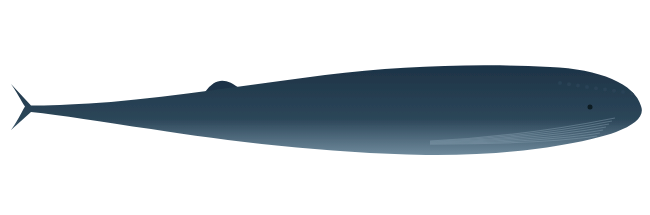
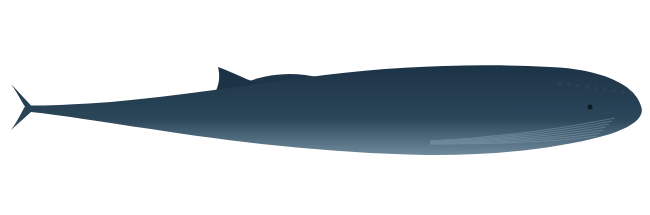
1.2.1: whale's dorsal fin drawn as a small swept-back fin on a low hump (was a round knob)
Claude-Session: https://claude.ai/code/session_01TjXjoGUoKzCAKPjEBqhxMT

Changed region(s): [[0.3077, 0.307, 0.4923, 0.4186]]

diff --git a/tools/make-art.js b/tools/make-art.js
@@ -458,7 +458,9 @@ asset('whale', 1300, 430, () => {
   for (let k = 0; k < 9; k++) knobs += `<circle cx="${1120 + k * 18}" cy="${f(166 + k * 2.6)}" r="4"/>`;
   return `<defs>${lin('w', [[0, '#1d3346'], [0.6, '#2c4659'], [1, '#6f8a9c']])}<clipPath id="c"><path d="${d}"/></clipPath>${blur('b1', 1.5)}</defs>
   <g filter="url(#b1)">
-  <path d="M480,178 C452,154 430,156 410,184 Z" fill="#1d3346"/>
+  ${''/* the humpback's low hump with a small swept-back dorsal fin on it (bases hidden behind the body) */}
+  <path d="M640,156 C590,142 530,146 480,170 L640,172 Z" fill="#1f364a"/>
+  <path d="M524,170 C500,162 468,146 436,134 C440,150 440,168 428,190 Z" fill="#1d3346"/>
   <path d="${d}" fill="url(#w)"/>
   <g clip-path="url(#c)"><g fill="none" stroke="#8aa3b3" stroke-width="2.5" opacity=".45">${grooves}</g><g fill="#2a4255">${knobs}</g></g>
   <circle cx="1180" cy="214" r="5" fill="#0e1a24"/></g>`;

diff --git a/store/LISTING.md b/store/LISTING.md
@@ -27,7 +27,7 @@ Settings (Settings > Theme > Screensavers > Reefscape > Custom settings):
 No account, no ads, no internet connection needed, and no data collected.
 
 ## Release notes
-1.2.0: Garden eels, fish that scatter from sharks, full-moon coral spawning, sea stars that crawl, drifting seahorses, fish and sharks with moving fins, a setting for how many animals swim at once, Scuba Steve the diver, and smoother animation on older Roku models.
+1.2.1: Garden eels, fish that scatter from sharks, full-moon coral spawning, sea stars that crawl, drifting seahorses, fish and sharks with moving fins, a setting for how many animals swim at once, Scuba Steve the diver, and smoother animation on older Roku models.
 
 1.0: First release.
 
@@ -46,7 +46,7 @@ No account, no ads, no internet connection needed, and no data collected.
 - Screenshots 1920x1080: screenshots/1-reef-day.jpg ... 6-clock.jpg (settings-screen.jpg is a spare)
 
 ## Package
-- ../signing/Reefscape-1.2.0.pkg (signed; keep ../signing/SIGNING-KEY.txt safe)
+- ../signing/Reefscape-1.2.1.pkg (signed; keep ../signing/SIGNING-KEY.txt safe)
 
 ## Web pages the profile asks for
 - Privacy policy: privacy-policy.html
